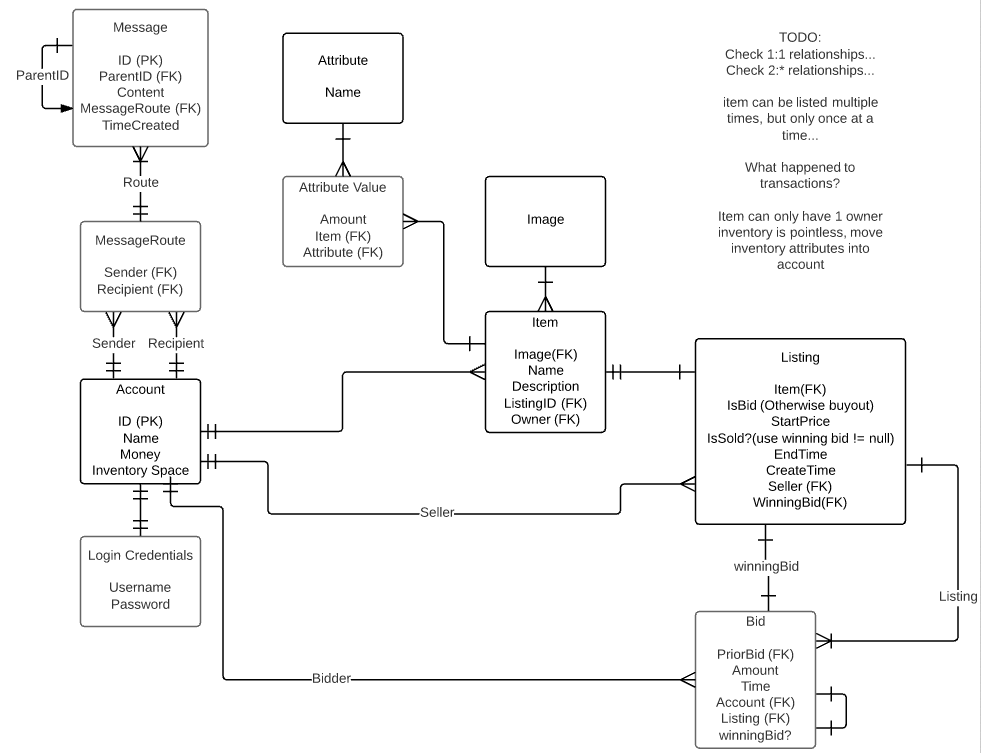
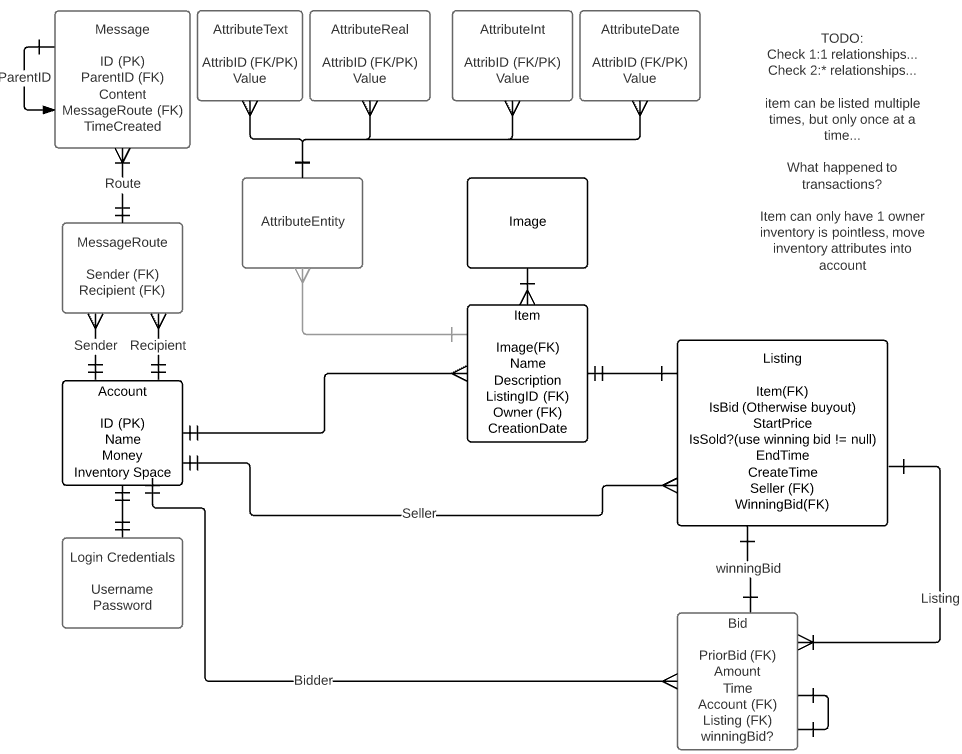
updated data model, item attributes now use Entity-Attribute-Value model

diff --git a/tdd.md b/tdd.md
@@ -35,7 +35,7 @@ https://www.lucidchart.com/documents/edit/299c93a7-91aa-4bd3-b2d2-2c8fcfa3b7c4#
 TODO:
 - change AttributeValue : amount -> value, also add AttributeValue.type (e.g. enum, int, real etc...)
 - Item aquired date (from buying or constructing)
-
+- EAV may be an anti pattern... https://mikesmithers.wordpress.com/2013/12/22/the-anti-pattern-eavil-database-design/
 ### Candidate Classes
 #### List
 #### Diagram
